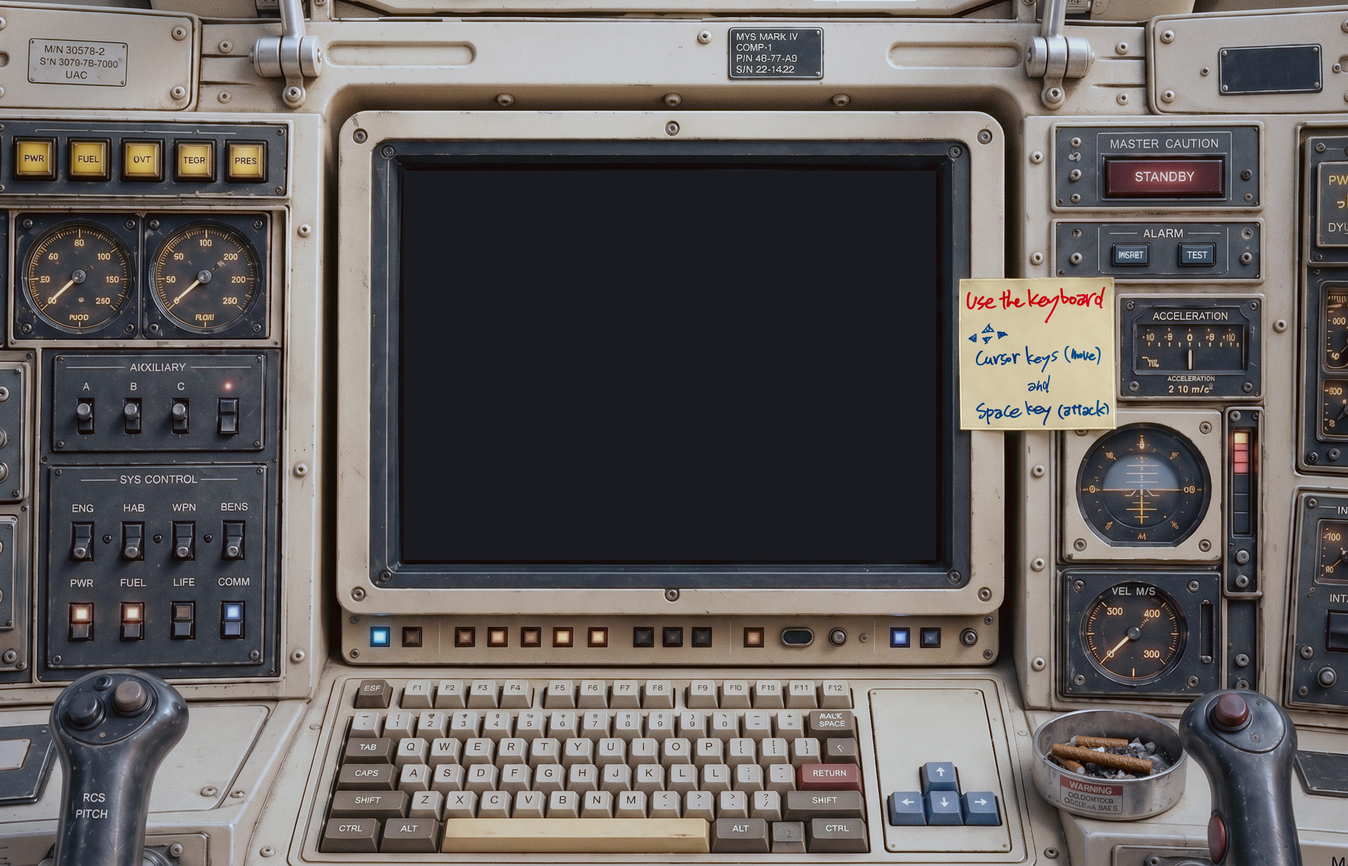
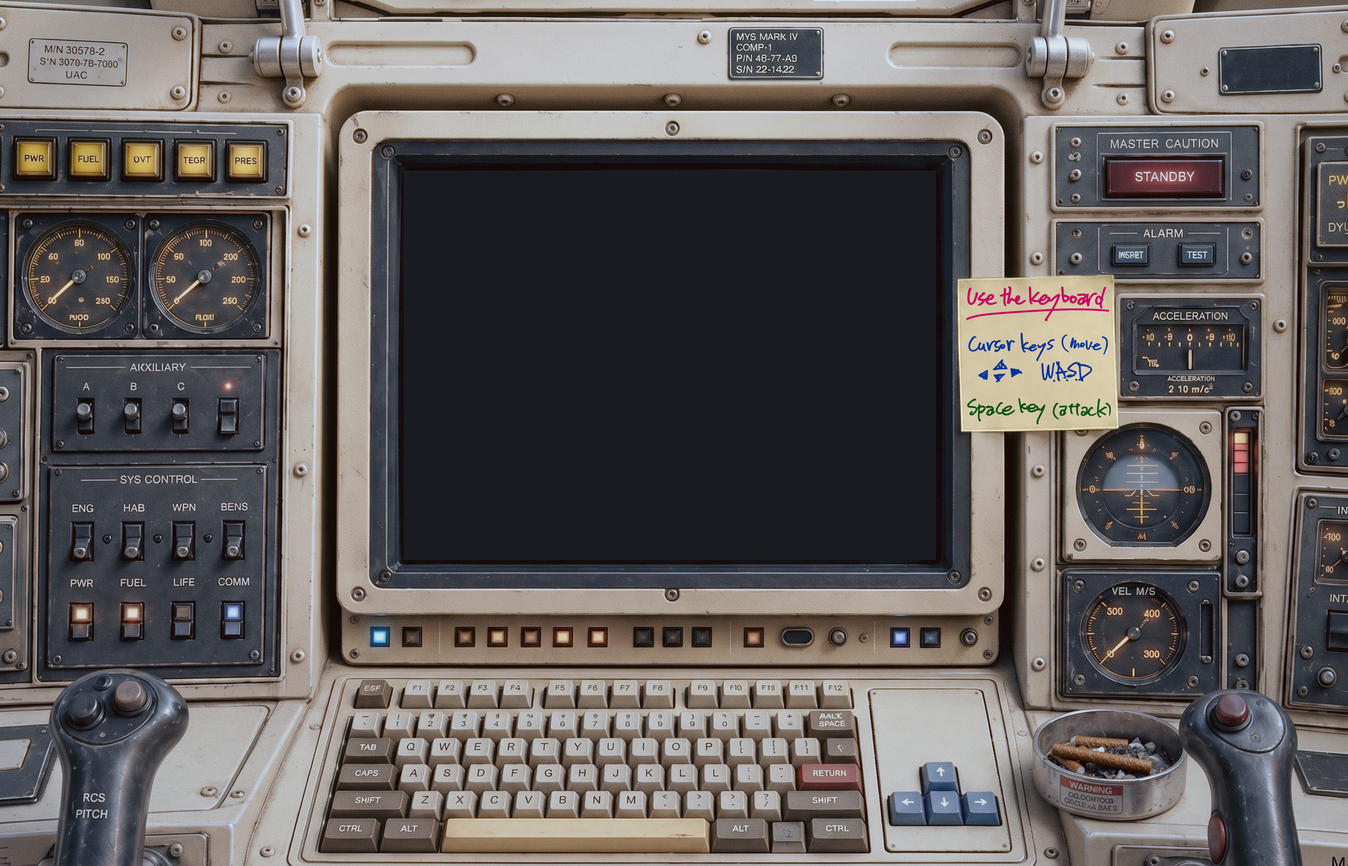
レスポンシブ対応 + WASD 対応 + スマホコントロール非表示
- #game-container を 1200x800 固定レイアウト + transform: scale(--game-scale)
  で比率維持しながらビューポートに合わせて縮小。inline-block 由来の
  canvas overflow / アスペクト崩れを解消。
- main.js: fitGameContainer() で resize 時に --game-scale を更新
- body { overflow: hidden } で縮小後の元レイアウトはみ出しをカット
- create.js: WASD キーを矢印キーの onDown/onUp に転送して JustDown/JustUp
  も含め透過的に動作させる
- スマホ用コントロール (.button-container) を全サイズで非表示
- index.html: style.css?v=22 / main.js?v=3 で CSS / JS キャッシュ更新

Changed region(s): [[0.7146, 0.3111, 0.8389, 0.4978]]

diff --git a/style.css b/style.css
@@ -7,6 +7,7 @@ body {
     display: flex;
     justify-content: center;
     align-items: flex-start;
+    overflow: hidden; /* transform: scale で縮小した #game-container の元サイズによるはみ出しをカット */
 
     -webkit-touch-callout:none; /* リンク長押しのポップアップを無効化 */
     -webkit-user-select:none; /* テキスト長押しの選択ボックスを無効化 */
@@ -20,11 +21,21 @@ body {
 
 #game-container {
     position: relative;
-    display: inline-block;
+    /* レイアウトサイズを 1200x800 に固定。内部 canvas (max 1200x800) と CRT
+       オーバーレイ (1200x800) の想定基準を揃える。inline-block + flex 親では
+       明示幅がないと viewport 幅で押し潰されて canvas が overflow し、
+       見かけのアスペクトが崩れるため。 */
+    width: 1200px;
+    height: 800px;
+    flex: 0 0 auto;
     margin-top: 30px;
     line-height: 0;
     border-radius: 18px;
     overflow: hidden;
+    /* JS が --game-scale を更新。ビューポートに収まる比率（最大 1）でスケール。
+       内部の CRT/ローディング画面/ブリーフィングも一緒に縮小される。 */
+    transform: scale(var(--game-scale, 1));
+    transform-origin: 50% 50%;
 }
 
 /* PC/タブレット（769px以上）はブラウザ中央に配置 */
@@ -408,6 +419,7 @@ body.no-crt .crt-overlay {
     top: 900px;
     left: 50%;
     transform: translateX(-50%);
+    display: none; /* スマホ用コントロールは一旦非表示（タッチ対応の touchstart/touchend は残す） */
 }
 
 .button-row {
@@ -447,10 +459,10 @@ body.no-crt .crt-overlay {
     margin: 0 0 0 30px;
 }
 
-/* 769px以上の場合 */
+/* スマホ用コントロールは現状すべてのサイズで非表示 */
 @media screen and (min-width: 769px) {
     .button-container {
-        display: block;
+        display: none;
     }
 }
 

diff --git a/js/main.js b/js/main.js
@@ -4,6 +4,18 @@
         import { create as createScene } from './create.js';
         import { update as updateScene } from './update.js';
 
+        // #game-container を視覚的にビューポートに合わせて縮小（比率維持・拡大はしない）
+        // 内部レイアウト（CRT/ローディング画面/ブリーフィング）は 1200x800 想定のまま、
+        // CSS の transform: scale(var(--game-scale)) で全体を同率に縮める。
+        const GAME_BASE_W = 1200;
+        const GAME_BASE_H = 800;
+        function fitGameContainer() {
+            const s = Math.min(window.innerWidth / GAME_BASE_W, window.innerHeight / GAME_BASE_H, 1);
+            document.documentElement.style.setProperty('--game-scale', s);
+        }
+        fitGameContainer();
+        window.addEventListener('resize', fitGameContainer);
+
         // 8bitエフェクト用PostFXパイプライン（ピクセル化・減色・スキャンライン）
         const PixelArtPipeline = new Phaser.Class({
             Extends: Phaser.Renderer.WebGL.Pipelines.PostFXPipeline,

diff --git a/index.html b/index.html
@@ -19,7 +19,7 @@
     <meta property="og:site_name" content="Moon Lander" />
     <meta property="og:image" content="https://moonlander-two.vercel.app/assets/ogp.png" />
     <link rel="icon" href="assets/favi.ico">
-    <link rel="stylesheet" href="style.css?v=20">
+    <link rel="stylesheet" href="style.css?v=22">
     <script src="//cdn.jsdelivr.net/npm/phaser@3.55.2/dist/phaser.min.js"></script>
     <script src="//cdn.jsdelivr.net/npm/three@0.155.0/build/three.min.js"></script>
 </head>
@@ -93,7 +93,7 @@
     <!-- 捕獲時のグリッチ用：ブラウザ最前面の WebGL オーバーレイ -->
     <canvas id="glitch-overlay"></canvas>
 
-    <script type="module" src="js/main.js"></script>
+    <script type="module" src="js/main.js?v=3"></script>
 
     <div class="button-container">
         <div class="button-row">
